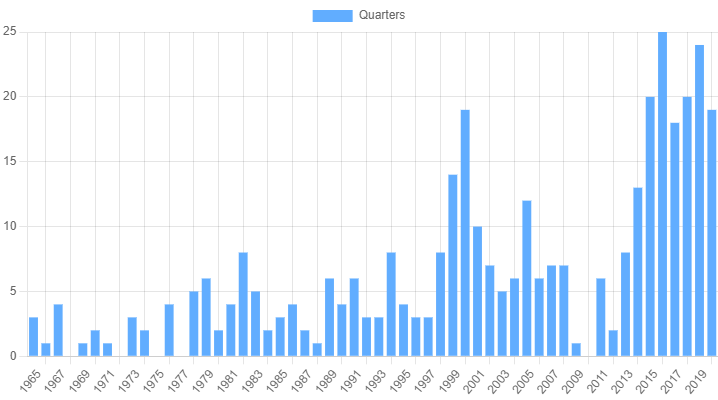
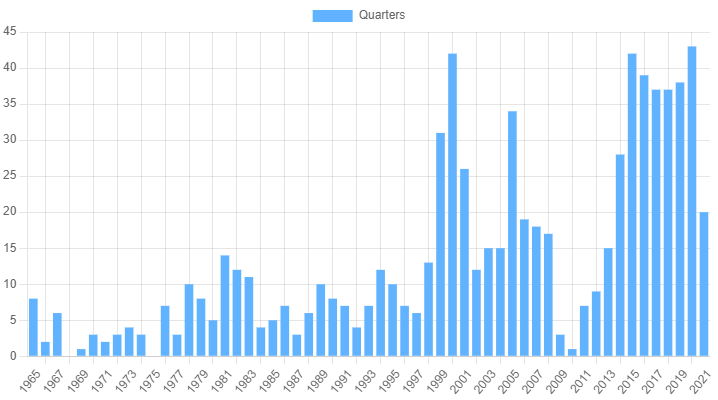
post: quarters update

diff --git a/_posts/2022-04-19-quarters.md b/_posts/2022-04-19-quarters.md
@@ -20,15 +20,15 @@ I will keep my eyes peeled, pray that one day I'll find that 57+ year old retire
 
 Here's some statistics on the quarters I had received from the bank
 
-|        | 0  | 1  | 2 | 3 | 4  | 5  | 6  | 7  | 8  | 9  |
-|--------|----|----|---|---|----|----|----|----|----|----|
-| 1960's |    |    |   |   |    | 3  | 1  | 4  |    | 1  |
-| 1970's | 2  | 1  |   | 3 | 2  |    | 4  |    | 5  | 6  |
-| 1980's | 2  | 4  | 8 | 5 | 2  | 3  | 4  | 2  | 1  | 6  |
-| 1990's | 4  | 6  | 3 | 3 | 8  | 4  | 3  | 3  | 8  | 14 |
-| 2000's | 19 | 10 | 7 | 5 | 6  | 12 | 6  | 7  | 7  | 1  |
-| 2010's |    | 6  | 2 | 8 | 13 | 20 | 25 | 18 | 20 | 24 |
-| 2020's | 19 |    |   |   |    |    |    |    |    |    |
+|        | 0  | 1  | 2  | 3  | 4  | 5  | 6  | 7  | 8  | 9  |
+|--------|----|----|----|----|----|----|----|----|----|----|
+| 1960's |    |    |    |    |    | 8  | 2  | 6  |    | 1  |
+| 1970's | 3  | 2  | 3  | 4  | 3  |    | 7  | 3  | 10 | 8  |
+| 1980's | 5  | 14 | 12 | 11 | 4  | 5  | 7  | 3  | 6  | 10 |
+| 1990's | 8  | 7  | 4  | 7  | 12 | 10 | 7  | 6  | 13 | 31 |
+| 2000's | 42 | 26 | 12 | 15 | 15 | 34 | 19 | 18 | 17 | 3  |
+| 2010's | 1  | 7  | 9  | 15 | 28 | 42 | 39 | 37 | 37 | 38 |
+| 2020's | 43 | 20 |    |    |    |    |    |    |    |    |
 
 ![Graph of quarters by year](/assets/img/quarters/graph.png)
 
@@ -42,6 +42,13 @@ Also, I'm not sure if this is the best way to do it. I only got a `C+` in my uni
 
 Now I can spend my tens on more fulfilling things, as we all know: [it's all about the Hamilton's baby!](https://youtu.be/sRhTeaa_B98)
 
+### Another Benjamin's Worth
+
+My quarter collection is dwindling, I only have a few bucks left in my 25th Birthday pot crafted and gifted to me by @yelli_r. This means I went through $100 in 256 days, averaging $11.70 per month spent on laundry, excluding detergent (which has been provided by my building for some reason) and dryer sheets. Another $100 worth should last me until March 2023 unless I get dirtier or develop germophobic habits. I will keep chasing that mystical `1964` quarter and update this post with each substantial quarter dollar harvest. The above two graphs are also becoming more similar now that I have doubled my sample size, although the expected recency bias is very strong.
+
+![Quarter haul being sorted part 2](/assets//img/quarters/coins-2.jpg)
+![Pot I keep my quarters in](/assets/img/quarters/pot.jpg)
+
 ## Post Script
 
 A [script](https://seinfeldscripts.com/TheReversePeephole.htm) from "The Reverse Peephole" Seinfeld episode where Kramer mentions a sock full of pennies.
@@ -52,16 +59,7 @@ Some tracks to get yourself feeling like a rich man :necktie:
 - [Rich Man - Vampire Weekend](https://open.spotify.com/track/2WaaqcSdsLliuWTnmY4rLC?si=eced25e015d14e16)
 - [RICHMAN - 3OH!3](https://open.spotify.com/track/3JfbMm4LfBmm96mkKhyG6I?si=19455858bba94363)
 
-## Another Benjamin's Worth
+## Acknowledgements
 
-My quarter collection is drindling, I only have a few bucks left in my 25th Birthday pot crafted and gifted to me by @yelli_r. By my estimations this will only last until June 25, 2022. That means I went through $100 in 256 days, averaging $0.39 on laundry a day or $11.70 per month, excluding detergent (which has been provided by my building for some reason) and dryer sheets. If I get another $100 worth of quarters then that should last me until at least March 2023 unless either I get dirtier on average or develop germophobic tendencies.
-
-![Pot I keep my quarters in](/assets/img/quarters/pot.jpg)
-
-Hopefully this order will include the fabled 1964 variant :fingers_crossed:
-
-I added my new quarter collection to the existing table below
-
-TODO <https://www.tablesgenerator.com/markdown_tables>
-
-![Graph of quarters by year - updated](/assets/img/quarters/graph-2.png)
+- Graphs made with [Code Beautify - Bar Graph Maker](https://codebeautify.org/bar-graph-maker)
+- Thanks for First Tech Credit Union for [sourcing the quarters](https://www.federalreserve.gov/faqs/why-do-us-coins-seem-to-be-in-short-supply-coin-shortage.htm)
